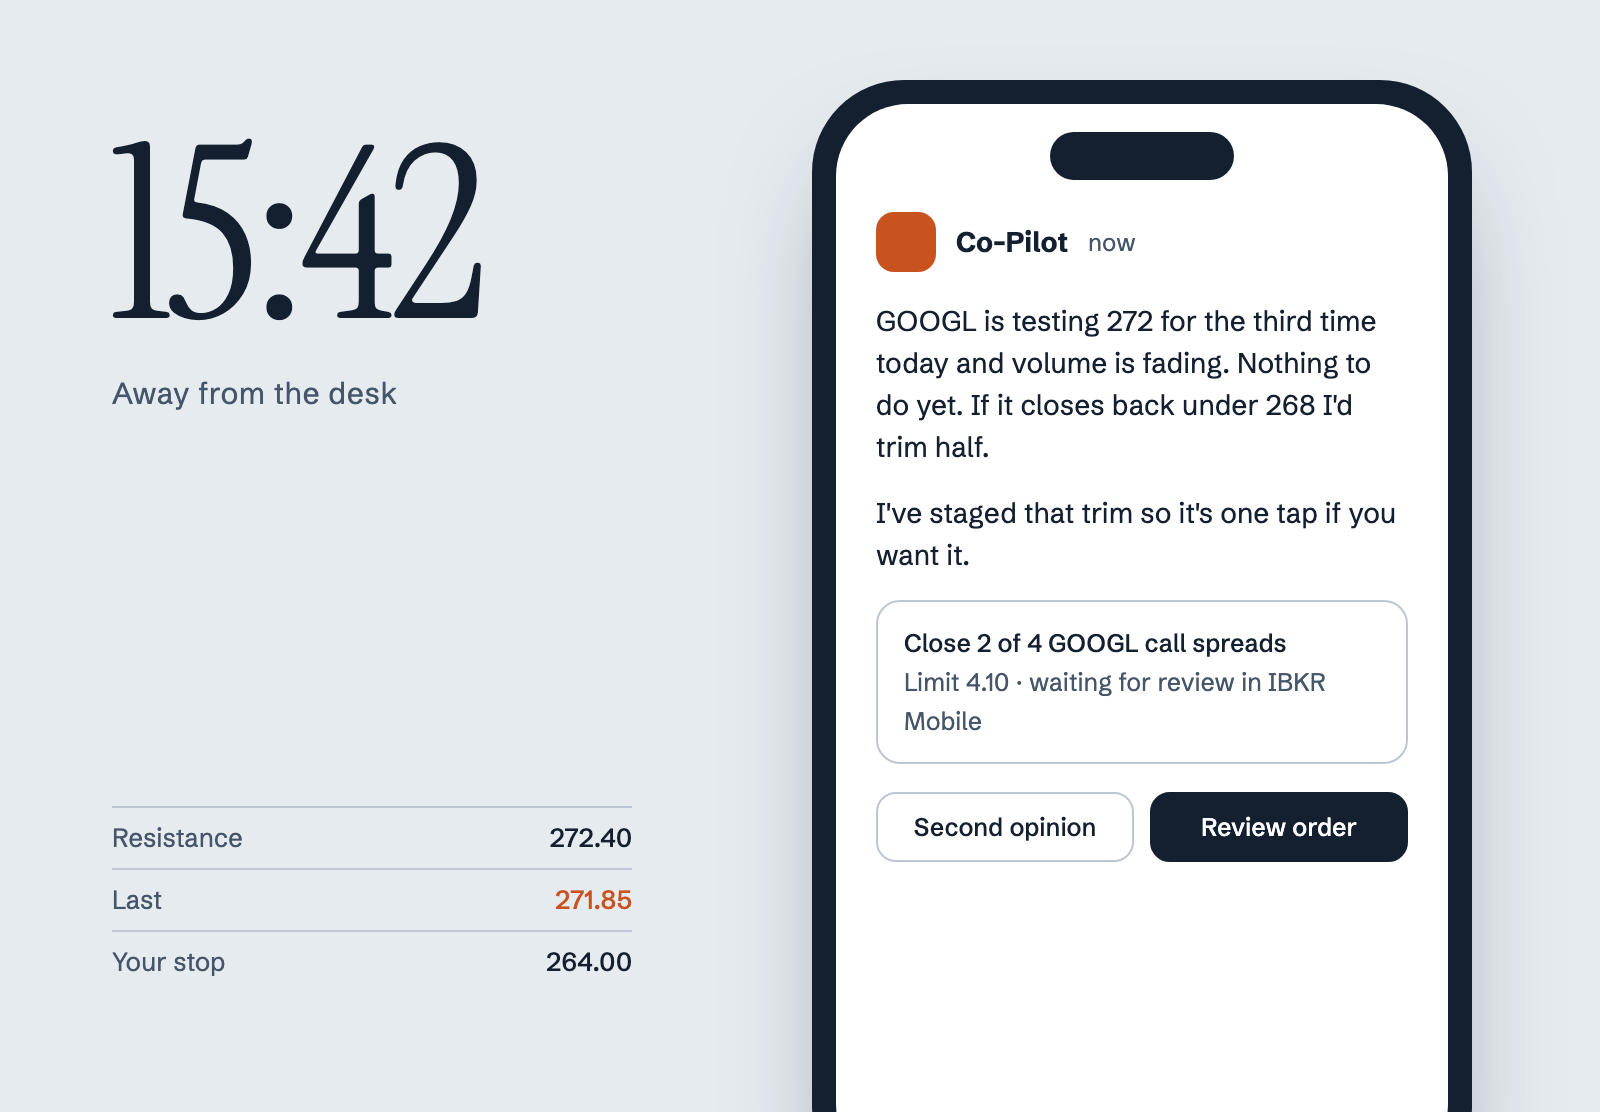
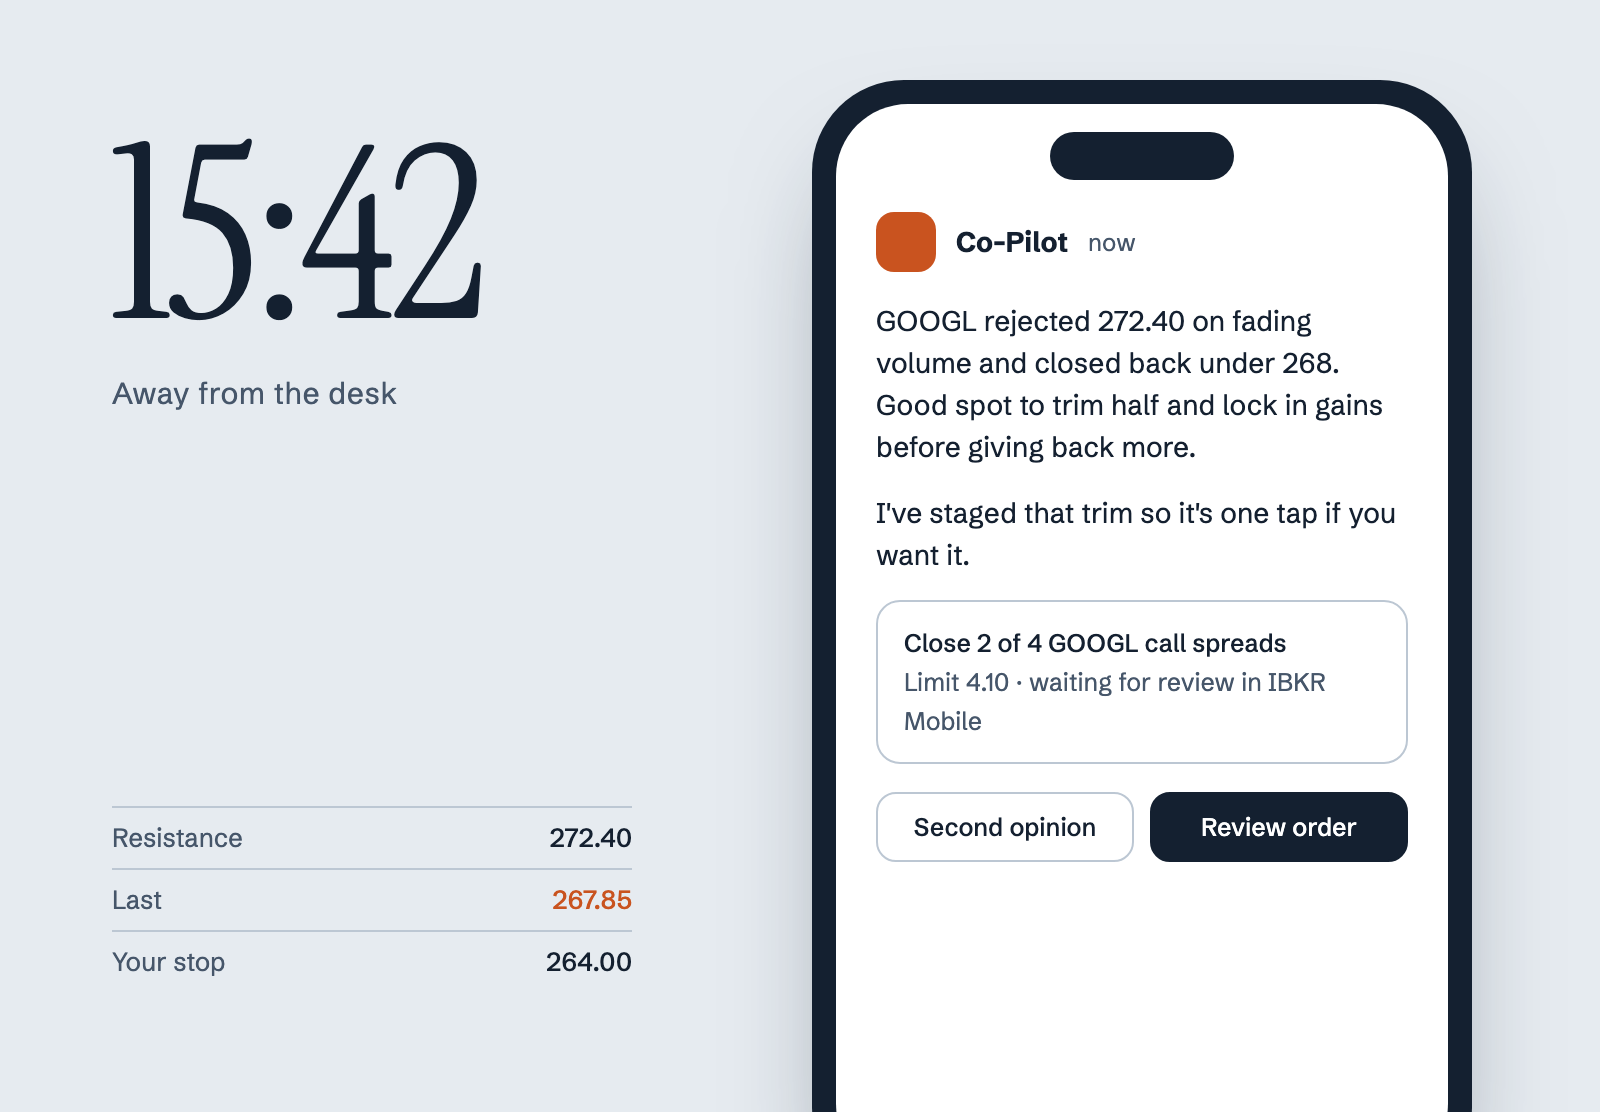
Publish Trading Co-Pilot with a more technical write-up
Rewrites the write-up around how the agent layer works: the decision
gate and JSON schemas, Slack threads that resume the same agent session,
the two MCP servers, the permission policy that blocks order submission
and the toolless Claude red-team. Stats now count models and MCP servers
instead of sectors and views. The cover message now shows a confirmed
rejection under 268 rather than a test of 272, and the entry is set to
published: true.

Changed region(s): [[0.5312, 0.2752, 0.875, 0.4281], [0.3438, 0.795, 0.375, 0.8255]]

diff --git a/og-image/covers/trading-copilot.html b/og-image/covers/trading-copilot.html
@@ -155,15 +155,15 @@
 		</div>
 		<div class="levels">
 			<div><span>Resistance</span><b>272.40</b></div>
-			<div class="hot"><span>Last</span><b>271.85</b></div>
+			<div class="hot"><span>Last</span><b>267.85</b></div>
 			<div><span>Your stop</span><b>264.00</b></div>
 		</div>
 		<div class="phone">
 			<div class="screen">
 				<div class="who"><i></i>Co-Pilot <span>now</span></div>
 				<p class="msg">
-					GOOGL is testing 272 for the third time today and volume is fading. Nothing to do yet. If
-					it closes back under 268 I'd trim half.
+					GOOGL rejected 272.40 on fading volume and closed back under 268. Good spot to trim half
+					and lock in gains before giving back more.
 				</p>
 				<p class="msg">I've staged that trim so it's one tap if you want it.</p>
 				<div class="order">

diff --git a/src/content/projects/trading-copilot/+page.md b/src/content/projects/trading-copilot/+page.md
@@ -1,55 +1,63 @@
 ---
 title: 'Trading Co-Pilot'
 date: '2026-11-23'
-summary: 'A background service that watches my Interactive Brokers positions, sector rotation and overnight futures, sends short Slack messages to my phone when something needs a decision and stages orders in IBKR Mobile for me to approve.'
-kind: 'Phone-first trading assistant'
-pitch: "A service on my Mac that watches my open positions and the wider market so I don't have to watch a screen. When a level breaks it sends a short message to my phone, and if a trade makes sense it stages the order in IBKR Mobile for me to approve or ignore."
+summary: 'A headless AI agent daemon that watches my Interactive Brokers positions, sector rotation and overnight futures, talks to me in stateful Slack threads, red-teams ideas with a second model and stages orders via MCP for mobile approval.'
+kind: 'Phone-first AI trading agent'
+pitch: "A service on my Mac that pairs deterministic market math with headless AI agents over MCP. Plain Python watches levels, sector rotation and overnight futures; when something matters, an agent checks live broker data, decides whether to message my phone on Slack, and stages an order in IBKR Mobile for me to approve or challenge with a second model."
 stats:
-  - value: '11'
-    label: 'sectors tracked for rotation'
-  - value: '5'
-    label: 'views in the desktop app'
+  - value: '2'
+    label: 'models (primary + red-team)'
+  - value: '2'
+    label: 'MCP servers (broker + account)'
   - value: '0'
     label: 'orders it can send on its own'
 tags:
   - Python
+  - AI agents
+  - MCP
   - Slack
   - Interactive Brokers
-  - AI agents
 cover: '/images/projects/trading-copilot/cover.png'
-coverAlt: 'A phone showing a short message about a position testing resistance, with buttons to ask for a second opinion or review a staged order'
-published: false
+coverAlt: 'A phone showing a short message about a position rejecting resistance, with buttons to ask for a second opinion or review a staged order'
+published: true
 ---
 
 This started as an SPX signal bot. It read the S&P 500 option chain, worked out where dealers' gamma exposure was likely to pin or push the index and posted paper signals to Slack. Over a few weeks it grew into a desktop terminal with live charts, option chains and one-click trading. That made me watch screens more, which was the opposite of what I wanted from it.
 
-So I turned it around. The heavy lifting now runs in the background, and the place I meet it is a Slack thread on my phone.
+So I turned it around. The heavy lifting now runs as a background agent daemon, and the place I meet it is a Slack thread on my phone.
 
-## Numbers first, words second
+## Deterministic math, structured agent judgement
 
-The service has two layers. The first is plain Python that runs on a schedule and computes everything: support and resistance from swing points, moving averages, VWAP and the gamma levels from the original bot. It also follows each open position through a small state machine: monitoring, testing a level, then either rejected or broken out.
+The service separates calculation from judgement into two layers. The first is plain Python running on a market-aware schedule: it clusters support and resistance from swing points, moving averages, VWAP and gamma walls, computes Black-Scholes Greeks and option spreads, checks headlines and macro events, and tracks each open position through a small state machine (`monitoring`, `testing`, then `rejected` or `broken out`).
 
-Only when that layer finds something does a language model get involved. It gets a packet of verified numbers, decides whether the trigger is worth a message at all and writes two to five sentences: what happened, why it matters, what I could do and what it is watching next. Most triggers end there without a message.
+Only when that layer trips does a language model wake up. Rather than wrapping a raw chat API, the daemon drives a headless agent CLI with strict JSON schemas (`--json-schema`) and tiered reasoning effort — higher for briefings and trade decisions, lighter for quick thread replies and broker syncs. Every trigger passes through an explicit decision gate (`notify_and_stage`, `notify_only` or `veto_silent`). Noisy triggers are dropped silently; real ones become two to five plain sentences: what happened, why it matters, what I could do and what it is watching next. If the agent CLI is ever unreachable, critical stop and exit alerts fall back to deterministic prose so nothing important disappears.
 
-## What it watches
+## Stateful Slack threads and MCP tools
+
+Every alert, briefing and position watch stores its Slack `thread_ts` alongside the agent's `conversation_id` in SQLite. Replying from my phone hours later resumes that exact agent session instead of starting cold. The reply schema also carries structured `watch_mutations`, so saying *"move my stop to 264"* or *"snooze this today"* updates the live Python watchers directly without a command syntax.
+
+Under the hood, the agent has live access to two MCP servers:
+
+- **Interactive Brokers' official MCP** for pulling live quotes, option chains, Greeks, earnings and positions on demand — which also removes the need to keep TWS or IB Gateway logged in locally (and stops it kicking out my mobile session).
+- **My own `account-command-os` MCP server**, exposing the same portfolio briefing, journal, playbooks, GEX scans and what-if simulator so IDE chat agents share the exact same account state.
+
+Multi-step procedures, like verifying live bid/ask spreads before staging a ticket, live in reusable skill files rather than being stuffed into every prompt.
+
+## Permission-enforced staging
+
+Safety isn't left to prompt instructions alone. The agent's CLI permission policy allows read tools plus `create_order_instruction` — which queues a draft waiting for review in IBKR Mobile — and explicitly denies `submit_order`, `modify_order`, `cancel_order` and `delete_order_instruction`. Even if a model tried to execute directly, the tool call is blocked before it leaves the machine.
+
+## Two-model adversarial red-teaming
+
+On any alert or thread I can tap *Second opinion* or ask for one in prose. That spawns a second model (Claude) strictly toolless (`--tools ""`), given only the Slack thread, structured trigger context and a portfolio snapshot. Its single job is to argue against the primary model — hunting for hidden correlation, IV/earnings traps or late-stage crowding — and return `AGREE`, `MODIFY` or `PASS` with its sharpest objection. The primary agent then weighs that pushback and replies in one short message showing where the two models agree and where they diverge.
+
+## What the watchers feed it
 
 - **Open positions.** A heads-up when a position tests a level, and a follow-up only when the level clearly holds or breaks.
-- **Sector rotation.** All 11 S&P sectors, sorted by whether a move is early, healthy or already crowded. Crowded sectors are kept out of new long ideas, so it doesn't suggest chasing a rally that is mostly done.
-- **New setups** on a short focus list, with the structure picked to fit: a debit or credit spread, a single option or shares.
-- **Overnight.** Futures, oil, gold, the dollar, USD/SEK and bitcoin at a slower pace outside US hours, with a summary at 06:00 Swedish time.
-
-I can reply in any thread from my phone, for example to ask a question or to move a stop level, and the service picks it up.
-
-## Orders stay with me
-
-Orders go through Interactive Brokers' own MCP connector. The agent is allowed to read positions, quotes and option chains and to create an order instruction, which appears in IBKR Mobile waiting for review. Submitting, changing and cancelling orders are blocked in the agent's permissions, so a trade only happens when I tap approve on the phone.
-
-Using the connector also means no local TWS or IB Gateway has to be logged in, which used to kick my phone session out.
-
-## A second opinion
-
-On any message I can ask for a second opinion. A separate model runs with no tools and only the thread as context, and its job is to argue against the idea. It answers agree, modify or pass with its strongest objection, and the co-pilot replies with where the two agree and where they don't.
+- **Sector rotation.** All 11 S&P sectors sorted into early inflection, healthy trend, base-building or crowded late rallies — crowded sectors are kept out of new long ideas.
+- **New setups** on a short focus list, picking the structure to fit liquidity and account size: a debit or credit spread, a single option or shares.
+- **Overnight.** Globex futures, oil, gold, DXY, USD/SEK and bitcoin at a slower cadence outside US hours, plus a morning summary at 06:00 Swedish time.
 
 ## The desktop side
 
-For planning and review there is a small macOS app with five views: today's watches and sector grid, the portfolio with Greeks and payoff curves, the watchlist and trade ideas, a journal filled in automatically from executions, and progress against my own risk rules. It is meant for the weekend, not for watching the market tick.
+For weekend planning and review there is a small macOS app with five views: today's watches and sector grid, the portfolio with Greeks and payoff curves, the watchlist and trade ideas, a journal filled in automatically from executions, and progress against my own risk rules. It is meant for the weekend, not for watching the market tick.
